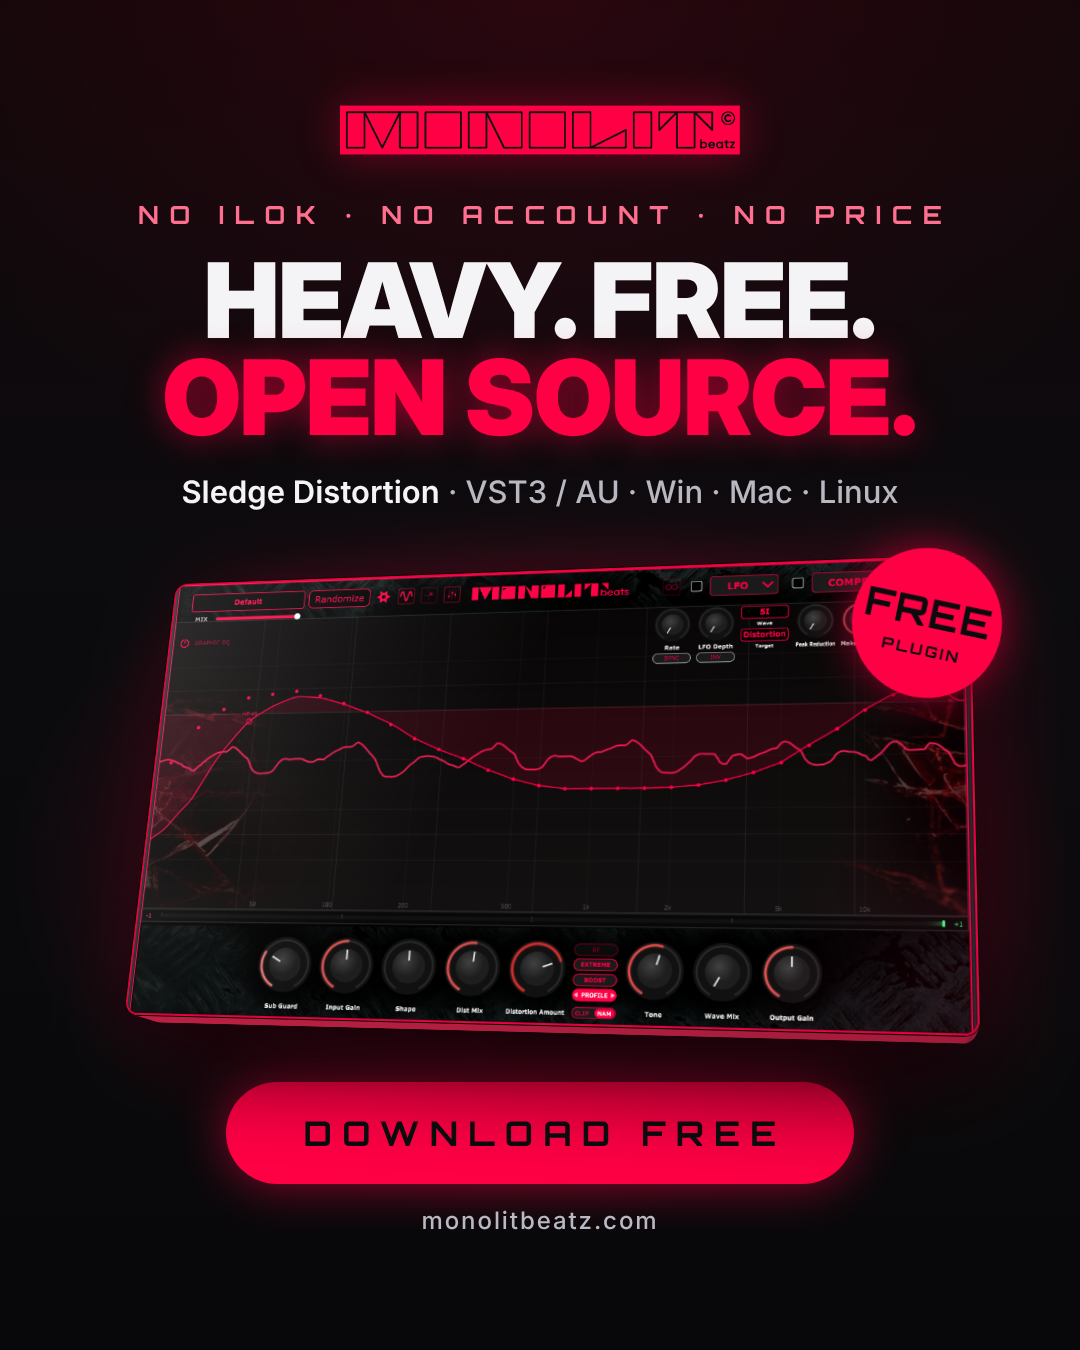
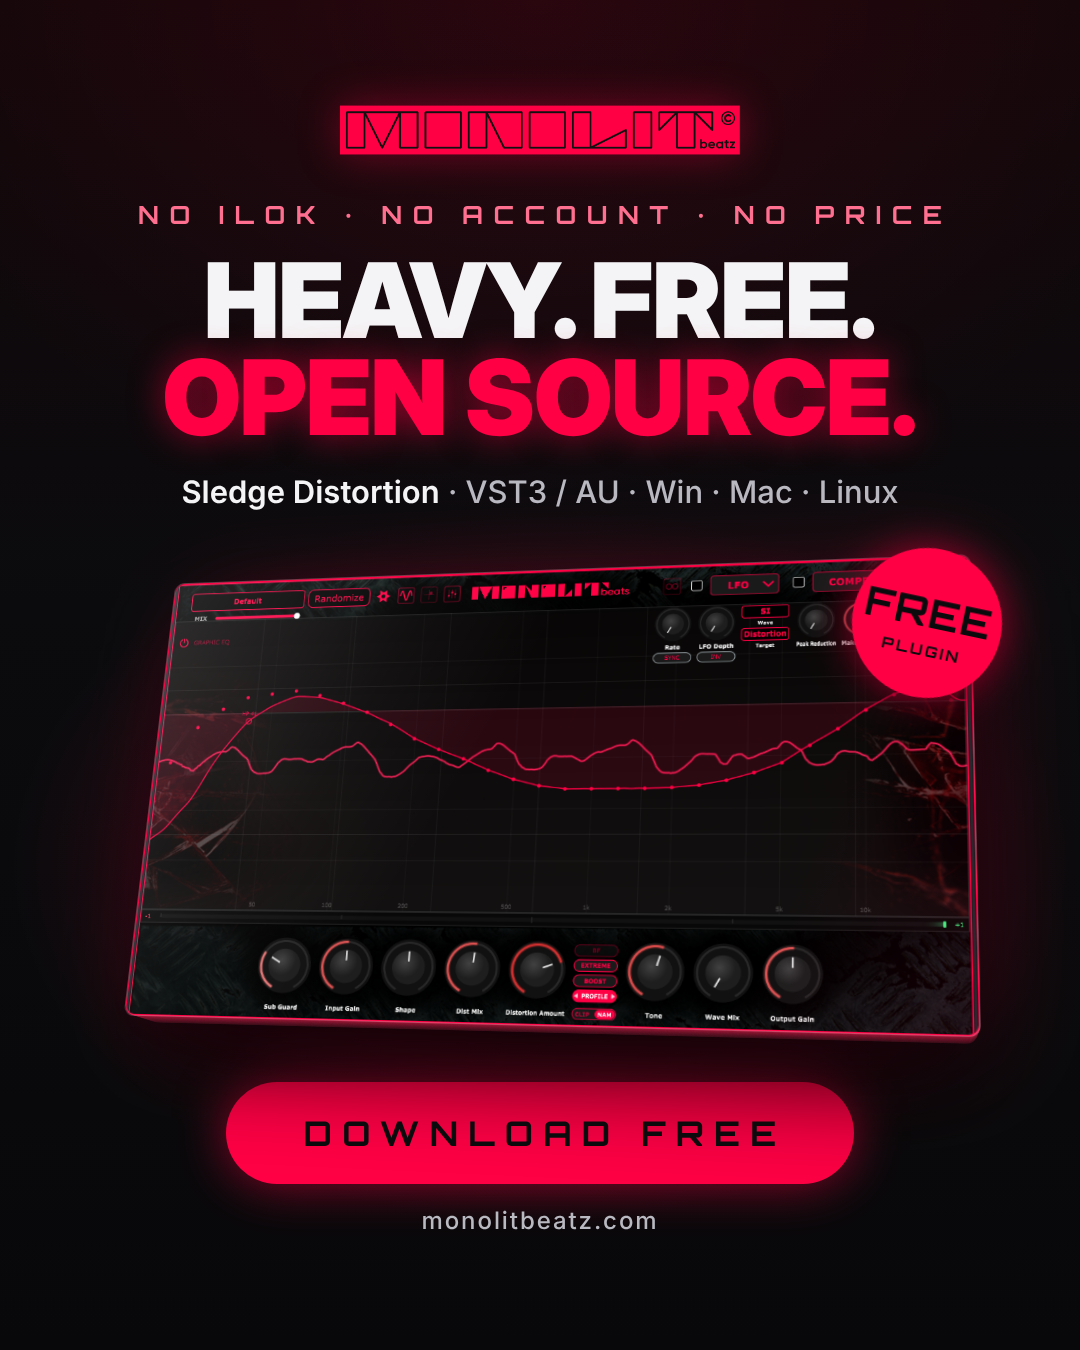
chore: refine the launch post's plugin window edges
Shade the body from a bright lip to dark red at the back instead of stacking pink borders, drop the dark seam between screen and body, and add a bevel catch-light and top highlight with tighter corners.

diff --git a/marketing/launch/post.html b/marketing/launch/post.html
@@ -65,17 +65,18 @@
     transform: translate(-50%, -50%) rotateX(16deg) rotateY(-12deg) rotateZ(3deg);
     transform-style: preserve-3d;
   }
-  .slab {
-    position: absolute; inset: 0; border-radius: 14px;
-    background: linear-gradient(160deg, #6a1527 0%, #2a0a12 45%, #0c0507 100%);
-    border: 1px solid rgba(255,40,90,.55);
-  }
-  .slab.back { box-shadow: 0 40px 90px rgba(0,0,0,.85), 0 0 110px rgba(255,0,68,.35); }
+  /* Each layer's colour is set in the script below: a red-lit lip at the front
+     fading to near black at the back, so the side reads as a shaded body. */
+  .slab { position: absolute; inset: 0; border-radius: 10px; }
+  .slab.back { box-shadow: 0 40px 90px rgba(0,0,0,.85), 0 0 110px rgba(255,0,68,.30); }
   .screen {
-    position: absolute; inset: 0; border-radius: 14px; overflow: hidden;
-    transform: translateZ(1px);
-    border: 2px solid rgba(255,0,68,.85);
-    box-shadow: 0 0 0 1px #000, inset 0 0 30px rgba(0,0,0,.6);
+    position: absolute; inset: 0; border-radius: 10px; overflow: hidden;
+    transform: translateZ(.5px);
+    border: 1.5px solid #ff0044;
+    box-shadow:
+      0 0 0 1px rgba(255,150,175,.35),        /* bevel catch-light outside the frame */
+      inset 0 1px 0 rgba(255,255,255,.28),    /* top edge highlight */
+      inset 0 0 24px rgba(0,0,0,.55);
   }
   .screen img { display: block; width: 100%; height: 100%; }
   .screen::after {          /* glass sheen across the face */
@@ -135,13 +136,19 @@
     while (size > 60 && Math.max(...[...h.querySelectorAll("span")].map(e => e.offsetWidth)) > 960) {
       h.style.fontSize = (size -= 2) + "px";
     }
-    // Build the slab's thickness: 1.5 px layers stepping back 36 px.
+    // Build the slab's thickness: 1 px layers stepping back DEPTH px, shaded
+    // from a bright lip through a red-lit body to near black at the back.
     const device = document.getElementById("device");
-    const DEPTH = 58, STEP = 1.5;
+    const DEPTH = 58, STEP = 1, LIP = 3;
+    const mix = (a, b, t) => a.map((v, i) => Math.round(v + (b[i] - v) * t));
+    const LIP_RGB = [255, 60, 105], FRONT = [176, 22, 58], BACK = [58, 10, 22];
     for (let z = STEP; z <= DEPTH; z += STEP) {
       const s = document.createElement("div");
       s.className = "slab" + (z + STEP > DEPTH ? " back" : "");
       s.style.transform = `translateZ(${-z}px)`;
+      const t = Math.pow((z - LIP) / (DEPTH - LIP), 0.7);
+      const rgb = z <= LIP ? mix(LIP_RGB, FRONT, (z - STEP) / LIP) : mix(FRONT, BACK, t);
+      s.style.background = `rgb(${rgb.join(",")})`;
       device.insertBefore(s, device.firstChild);
     }
   </script>
